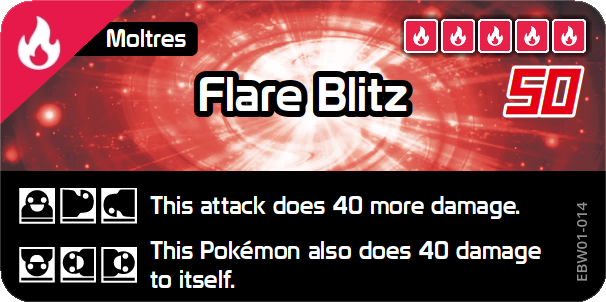
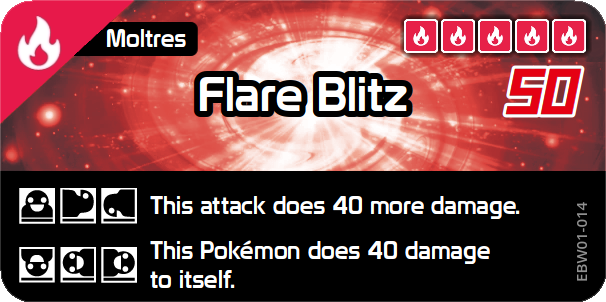
remove also

Changed region(s): [[0.505, 0.7748, 0.8911, 0.894]]

diff --git a/database/text/wazacards/EB01/01-002_moltres.md b/database/text/wazacards/EB01/01-002_moltres.md
@@ -4,20 +4,20 @@
 
 #### Fire Wing
 
-| Name      | Fire Wing                                   |
-| --------- | ------------------------------------------- |
-| Japanese  | ほのおのつばさ                              |
-| Type      | Fire                                        |
-| Code      | EBW01-011                                   |
-| Pokémon   | Moltres                                     |
-| Energy    | {R}{R}                                      |
-| Damage    | 30                                          |
-| Effect    |                                             |
-| Standing  | This attack does 30 more damage.            |
-| Handstand |                                             |
-| Back      | This attack does 30 more damage.            |
-| Down      |                                             |
-| Sideways  | This Pokémon also does 20 damage to itself. |
+| Name      | Fire Wing                              |
+| --------- | -------------------------------------- |
+| Japanese  | ほのおのつばさ                         |
+| Type      | Fire                                   |
+| Code      | EBW01-011                              |
+| Pokémon   | Moltres                                |
+| Energy    | {R}{R}                                 |
+| Damage    | 30                                     |
+| Effect    |                                        |
+| Standing  | This attack does 30 more damage.       |
+| Handstand |                                        |
+| Back      | This attack does 30 more damage.       |
+| Down      |                                        |
+| Sideways  | This Pokémon does 20 damage to itself. |
 
 [Fire Wing](https://bandai-hobby.net/site/pokemon/plakoro/images/products/eb01/06/img_wazacard01.webp)
 
@@ -61,20 +61,20 @@
 
 #### Flare Blitz
 
-| Name      | Flare Blitz                                 |
-| --------- | ------------------------------------------- |
-| Japanese  | フレアドライブ                              |
-| Type      | Fire                                        |
-| Code      | EBW01-014                                   |
-| Pokémon   | Moltres                                     |
-| Energy    | {R}{R}{R}{R}{R}                             |
-| Damage    | 50                                          |
-| Effect    |                                             |
-| Standing  | This attack does 40 more damage.            |
-| Handstand | This Pokémon also does 40 damage to itself. |
-| Back      | This attack does 40 more damage.            |
-| Down      | This attack does 40 more damage.            |
-| Sideways  | This Pokémon also does 40 damage to itself. |
+| Name      | Flare Blitz                            |
+| --------- | -------------------------------------- |
+| Japanese  | フレアドライブ                         |
+| Type      | Fire                                   |
+| Code      | EBW01-014                              |
+| Pokémon   | Moltres                                |
+| Energy    | {R}{R}{R}{R}{R}                        |
+| Damage    | 50                                     |
+| Effect    |                                        |
+| Standing  | This attack does 40 more damage.       |
+| Handstand | This Pokémon does 40 damage to itself. |
+| Back      | This attack does 40 more damage.       |
+| Down      | This attack does 40 more damage.       |
+| Sideways  | This Pokémon does 40 damage to itself. |
 
 [Flare Blitz](https://bandai-hobby.net/site/pokemon/plakoro/images/products/eb01/06/img_wazacard04.webp)
 
@@ -118,20 +118,20 @@
 
 #### Heat Breath
 
-| Name      | Heat Breath                                 |
-| --------- | ------------------------------------------- |
-| Japanese  | ヒートブレス                                |
-| Type      | Fire                                        |
-| Code      | EBW01-017                                   |
-| Pokémon   | Moltres                                     |
-| Energy    | {R}{R}{R}                                   |
-| Damage    | 40                                          |
-| Effect    |                                             |
-| Standing  | This attack does 40 more damage.            |
-| Handstand | This Pokémon also does 30 damage to itself. |
-| Back      | This attack does 40 more damage.            |
-| Down      | This Pokémon also does 30 damage to itself. |
-| Sideways  |                                             |
+| Name      | Heat Breath                            |
+| --------- | -------------------------------------- |
+| Japanese  | ヒートブレス                           |
+| Type      | Fire                                   |
+| Code      | EBW01-017                              |
+| Pokémon   | Moltres                                |
+| Energy    | {R}{R}{R}                              |
+| Damage    | 40                                     |
+| Effect    |                                        |
+| Standing  | This attack does 40 more damage.       |
+| Handstand | This Pokémon does 30 damage to itself. |
+| Back      | This attack does 40 more damage.       |
+| Down      | This Pokémon does 30 damage to itself. |
+| Sideways  |                                        |
 
 [Heat Breath](https://bandai-hobby.net/site/pokemon/plakoro/images/products/eb01/06/img_wazacard07.webp)
 

diff --git a/database/text/wazacards/EB01/01-001_pinsir.md b/database/text/wazacards/EB01/01-001_pinsir.md
@@ -137,20 +137,20 @@
 
 #### Reckless Charge
 
-| Name      | Reckless Charge                             |
-| --------- | ------------------------------------------- |
-| Japanese  | とつげき                                    |
-| Type      | Grass                                       |
-| Code      | EBW01-008                                   |
-| Pokémon   | Pinsir                                      |
-| Energy    | {G}{G}{G}                                   |
-| Damage    | 30                                          |
-| Effect    |                                             |
-| Standing  | This attack does 20 more damage.            |
-| Handstand | This Pokémon also does 20 damage to itself. |
-| Back      | This attack does 20 more damage.            |
-| Down      | This Pokémon also does 20 damage to itself. |
-| Sideways  |                                             |
+| Name      | Reckless Charge                        |
+| --------- | -------------------------------------- |
+| Japanese  | とつげき                               |
+| Type      | Grass                                  |
+| Code      | EBW01-008                              |
+| Pokémon   | Pinsir                                 |
+| Energy    | {G}{G}{G}                              |
+| Damage    | 30                                     |
+| Effect    |                                        |
+| Standing  | This attack does 20 more damage.       |
+| Handstand | This Pokémon does 20 damage to itself. |
+| Back      | This attack does 20 more damage.       |
+| Down      | This Pokémon does 20 damage to itself. |
+| Sideways  |                                        |
 
 [Reckless Charge](https://bandai-hobby.net/site/pokemon/plakoro/images/products/eb01/03/img_wazacard08.webp)
 
@@ -175,19 +175,19 @@
 
 #### Submission
 
-| Name      | Submission                                  |
-| --------- | ------------------------------------------- |
-| Japanese  | じごくぐるま                                |
-| Type      | Fighting                                    |
-| Code      | EBW01-010                                   |
-| Pokémon   | Pinsir                                      |
-| Energy    | {F}{C}{C}{C}                                |
-| Damage    | 30                                          |
-| Effect    | This Pokémon also does 20 damage to itself. |
-| Standing  | This attack does 30 more damage.            |
-| Handstand | This attack does 30 more damage.            |
-| Back      | This attack does 30 more damage.            |
-| Down      | This attack does 30 more damage.            |
-| Sideways  |                                             |
+| Name      | Submission                             |
+| --------- | -------------------------------------- |
+| Japanese  | じごくぐるま                           |
+| Type      | Fighting                               |
+| Code      | EBW01-010                              |
+| Pokémon   | Pinsir                                 |
+| Energy    | {F}{C}{C}{C}                           |
+| Damage    | 30                                     |
+| Effect    | This Pokémon does 20 damage to itself. |
+| Standing  | This attack does 30 more damage.       |
+| Handstand | This attack does 30 more damage.       |
+| Back      | This attack does 30 more damage.       |
+| Down      | This attack does 30 more damage.       |
+| Sideways  |                                        |
 
 [Submission](https://bandai-hobby.net/site/pokemon/plakoro/images/products/eb01/03/img_wazacard10.webp)

diff --git a/database/text/wazacards/EB01/01-006_grimer.md b/database/text/wazacards/EB01/01-006_grimer.md
@@ -137,20 +137,20 @@
 
 #### Sludge Tackle ?
 
-| Name      | Sludge Tackle ?                             |
-| --------- | ------------------------------------------- |
-| Japanese  | ヘドロタックル                              |
-| Type      | Dark                                        |
-| Code      | EBW01-059                                   |
-| Pokémon   | Grimer                                      |
-| Energy    | {D}{D}{D}                                   |
-| Damage    | 20                                          |
-| Effect    |                                             |
-| Standing  | This attack does 40 more damage.            |
-| Handstand | This Pokémon also does 20 damage to itself. |
-| Back      | This Pokémon also does 20 damage to itself. |
-| Down      | This Pokémon also does 20 damage to itself. |
-| Sideways  | This attack does 40 more damage.            |
+| Name      | Sludge Tackle ?                        |
+| --------- | -------------------------------------- |
+| Japanese  | ヘドロタックル                         |
+| Type      | Dark                                   |
+| Code      | EBW01-059                              |
+| Pokémon   | Grimer                                 |
+| Energy    | {D}{D}{D}                              |
+| Damage    | 20                                     |
+| Effect    |                                        |
+| Standing  | This attack does 40 more damage.       |
+| Handstand | This Pokémon does 20 damage to itself. |
+| Back      | This Pokémon does 20 damage to itself. |
+| Down      | This Pokémon does 20 damage to itself. |
+| Sideways  | This attack does 40 more damage.       |
 
 [Sludge Tackle](https://bandai-hobby.net/site/pokemon/plakoro/images/products/eb01/01/img_wazacard09.webp)
 

diff --git a/database/text/wazacards/EB01/01-005_onix.md b/database/text/wazacards/EB01/01-005_onix.md
@@ -137,20 +137,20 @@
 
 #### Wild Tackle
 
-| Name      | Wild Tackle                                 |
-| --------- | ------------------------------------------- |
-| Japanese  | ワイルドタックル                            |
-| Type      | Fighting                                    |
-| Code      | EBW01-048                                   |
-| Pokémon   | Onix                                        |
-| Energy    | {F}{F}{F}                                   |
-| Damage    | 30                                          |
-| Effect    |                                             |
-| Standing  | This attack does 20 more damage.            |
-| Handstand | This Pokémon also does 20 damage to itself. |
-| Back      | This attack does 20 more damage.            |
-| Down      | This Pokémon also does 20 damage to itself. |
-| Sideways  | This Pokémon also does 20 damage to itself. |
+| Name      | Wild Tackle                            |
+| --------- | -------------------------------------- |
+| Japanese  | ワイルドタックル                       |
+| Type      | Fighting                               |
+| Code      | EBW01-048                              |
+| Pokémon   | Onix                                   |
+| Energy    | {F}{F}{F}                              |
+| Damage    | 30                                     |
+| Effect    |                                        |
+| Standing  | This attack does 20 more damage.       |
+| Handstand | This Pokémon does 20 damage to itself. |
+| Back      | This attack does 20 more damage.       |
+| Down      | This Pokémon does 20 damage to itself. |
+| Sideways  | This Pokémon does 20 damage to itself. |
 
 [Wild Tackle](https://bandai-hobby.net/site/pokemon/plakoro/images/products/eb01/02/img_wazacard08.webp)
 

diff --git a/database/text/wazacards/ST/01-001_bulbasaur.md b/database/text/wazacards/ST/01-001_bulbasaur.md
@@ -80,20 +80,20 @@
 
 #### Reckless Charge
 
-| Name      | Reckless Charge                             |
-| --------- | ------------------------------------------- |
-| Japanese  | とつげき                                    |
-| Type      | Grass                                       |
-| Code      | STW01-005                                   |
-| Pokémon   | Bulbasaur                                   |
-| Energy    | {G}{G}{G}                                   |
-| Damage    | 30                                          |
-| Effect    |                                             |
-| Standing  | This attack does 40 more damage.            |
-| Handstand | This Pokémon also does 30 damage to itself. |
-| Back      | This attack does 40 more damage.            |
-| Down      | This Pokémon also does 30 damage to itself. |
-| Sideways  |                                             |
+| Name      | Reckless Charge                        |
+| --------- | -------------------------------------- |
+| Japanese  | とつげき                               |
+| Type      | Grass                                  |
+| Code      | STW01-005                              |
+| Pokémon   | Bulbasaur                              |
+| Energy    | {G}{G}{G}                              |
+| Damage    | 30                                     |
+| Effect    |                                        |
+| Standing  | This attack does 40 more damage.       |
+| Handstand | This Pokémon does 30 damage to itself. |
+| Back      | This attack does 40 more damage.       |
+| Down      | This Pokémon does 30 damage to itself. |
+| Sideways  |                                        |
 
 [Reckless Charge](https://bandai-hobby.net/site/pokemon/plakoro/images/products/st01/01/img_wazacard05.webp)
 

diff --git a/database/text/wazacards/ST/04-001_pikachu.md b/database/text/wazacards/ST/04-001_pikachu.md
@@ -99,20 +99,20 @@
 
 #### Volt Tackle
 
-| Name      | Volt Tackle                                 |
-| --------- | ------------------------------------------- |
-| Japanese  | ボルテッカー                                |
-| Type      | Electric                                    |
-| Code      | STW04-006                                   |
-| Pokémon   | Pikachu                                     |
-| Energy    | {L}{L}{L}{L}                                |
-| Damage    | 40                                          |
-| Effect    | This Pokémon also does 30 damage to itself. |
-| Standing  | This attack does 40 more damage.            |
-| Handstand |                                             |
-| Back      | This attack does 40 more damage.            |
-| Down      | This attack does 40 more damage.            |
-| Sideways  |                                             |
+| Name      | Volt Tackle                            |
+| --------- | -------------------------------------- |
+| Japanese  | ボルテッカー                           |
+| Type      | Electric                               |
+| Code      | STW04-006                              |
+| Pokémon   | Pikachu                                |
+| Energy    | {L}{L}{L}{L}                           |
+| Damage    | 40                                     |
+| Effect    | This Pokémon does 30 damage to itself. |
+| Standing  | This attack does 40 more damage.       |
+| Handstand |                                        |
+| Back      | This attack does 40 more damage.       |
+| Down      | This attack does 40 more damage.       |
+| Sideways  |                                        |
 
 [Volt Tackle](https://bandai-hobby.net/site/pokemon/plakoro/images/products/st04/01/img_wazacard06.webp)
 

diff --git a/database/text/wazacards/ST/05-001_eevee.md b/database/text/wazacards/ST/05-001_eevee.md
@@ -42,20 +42,20 @@
 
 #### Take Down
 
-| Name      | Take Down                                   |
-| --------- | ------------------------------------------- |
-| Japanese  | とっしん                                    |
-| Type      | Normal                                      |
-| Code      | STW05-003                                   |
-| Pokémon   | Eevee                                       |
-| Energy    | {Y}{Y}                                      |
-| Damage    | 30                                          |
-| Effect    |                                             |
-| Standing  | This attack does 20 more damage.            |
-| Handstand | This Pokémon also does 20 damage to itself. |
-| Back      | This attack does 20 more damage.            |
-| Down      | This Pokémon also does 20 damage to itself. |
-| Sideways  |                                             |
+| Name      | Take Down                              |
+| --------- | -------------------------------------- |
+| Japanese  | とっしん                               |
+| Type      | Normal                                 |
+| Code      | STW05-003                              |
+| Pokémon   | Eevee                                  |
+| Energy    | {Y}{Y}                                 |
+| Damage    | 30                                     |
+| Effect    |                                        |
+| Standing  | This attack does 20 more damage.       |
+| Handstand | This Pokémon does 20 damage to itself. |
+| Back      | This attack does 20 more damage.       |
+| Down      | This Pokémon does 20 damage to itself. |
+| Sideways  |                                        |
 
 [Take Down](https://bandai-hobby.net/site/pokemon/plakoro/images/products/st05/01/img_wazacard03.webp)
 

diff --git a/database/text/wazacards/ST/08-001_metagross.md b/database/text/wazacards/ST/08-001_metagross.md
@@ -126,7 +126,7 @@
 | Pokémon   | Metagross                                                |
 | Energy    | {C}{C}{C}{C}{C}                                          |
 | Damage    | 100                                                      |
-| Effect    | This Pokémon also does 120 damage to itself.             |
+| Effect    | This Pokémon does 120 damage to itself.                  |
 | Standing  | Prevent the damage this attack would do to your Pokémon. |
 | Handstand |                                                          |
 | Back      |                                                          |
